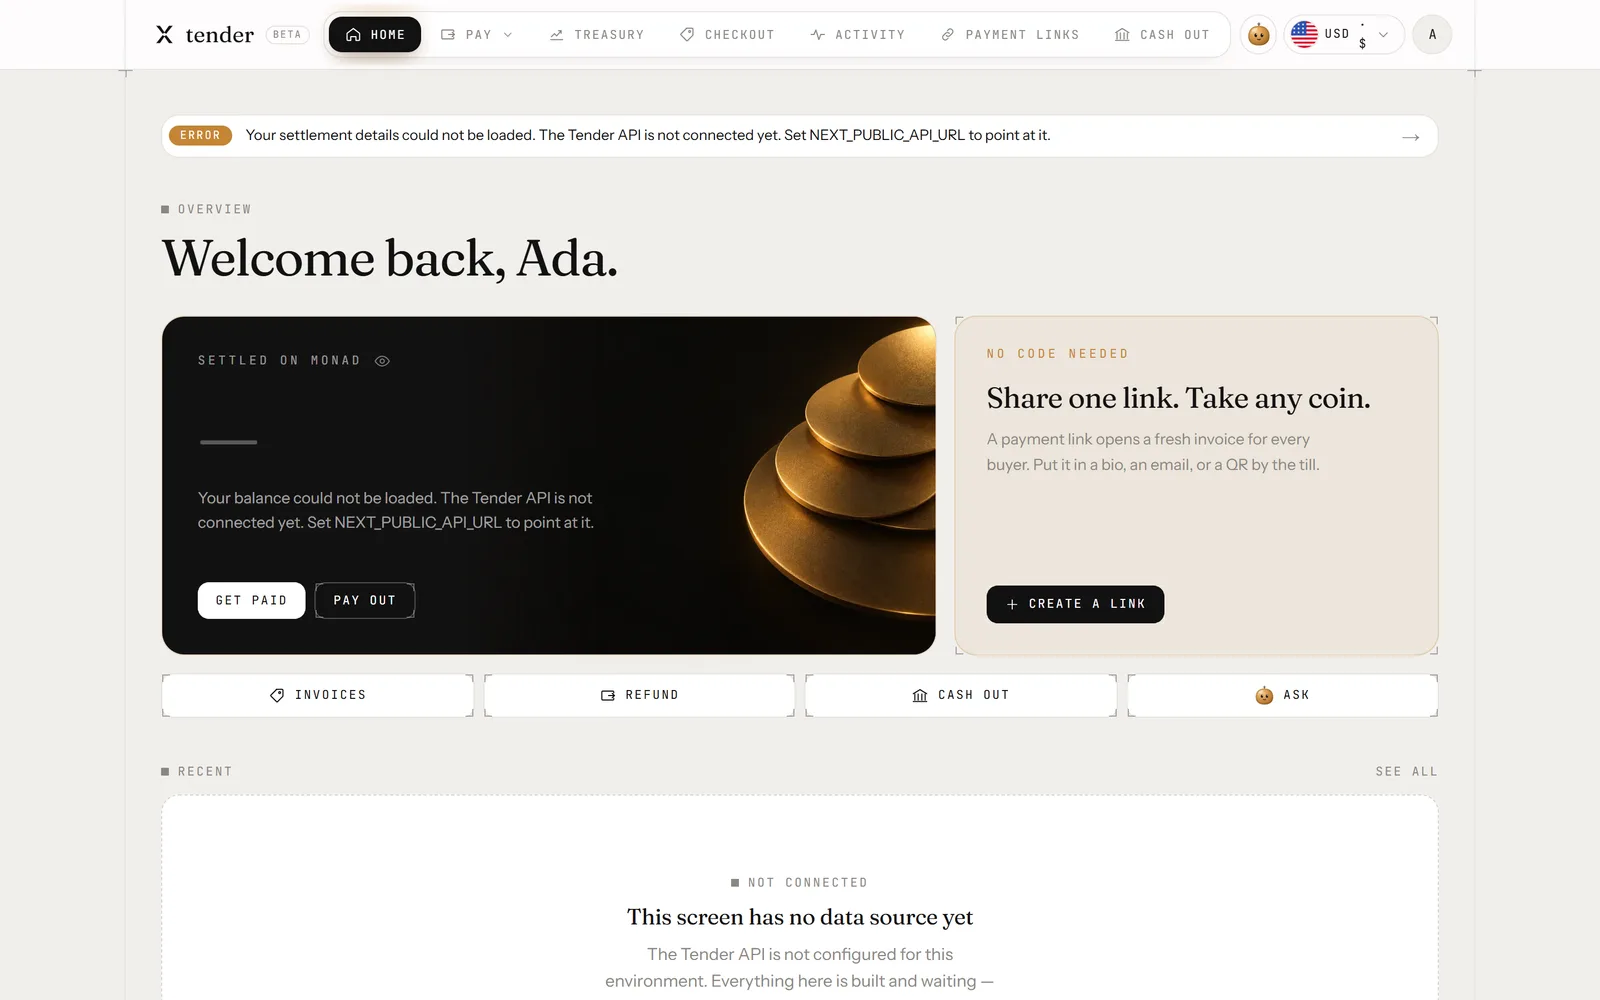
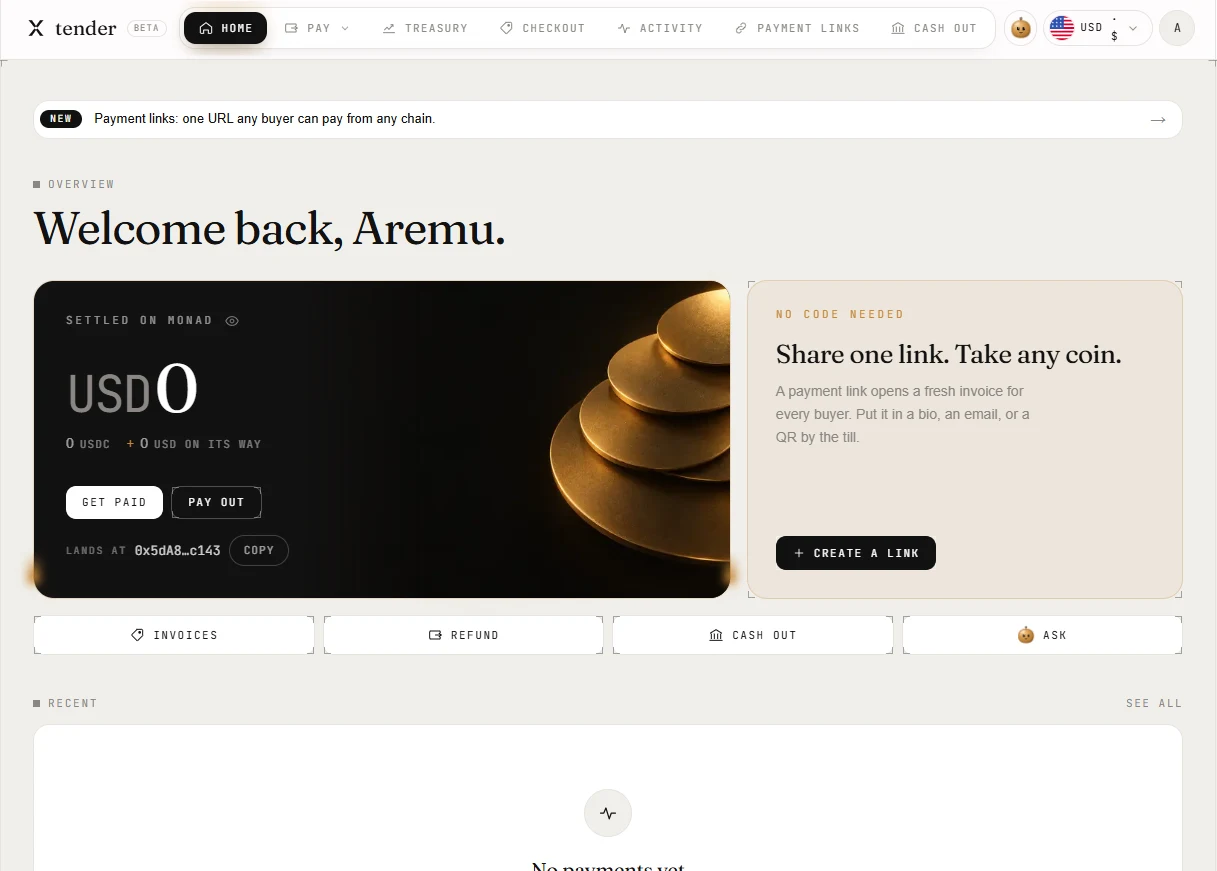
README: live dashboard shots, and why Tender fits Aurora
The two dashboard captures were taken against a build with no
NEXT_PUBLIC_API_URL, so they showed a placeholder merchant name and a
settlement-details error. Replaced with the real thing, signed in against
the deployed API: the live balance, what is in flight, and the settlement
address it lands at. The desktop shot is cropped to the dashboard's own
frame rails so it sits in the page without grey margins.

Says more about what Tender actually is. The buyer-facing story was one
paragraph; the merchant-facing one is now spelled out — taking money by
invoice or payment link, watching it land over webhooks and SSE, sending
it back out as refunds, payouts and splits, reconciling against a
reference, and displaying in thirteen currencies while the settlement
asset stays a separate deliberate setting. Plus what it never does: hold
the money.

Adds "Why this fits Aurora". Aurora solves routing and hands you an
address primitive with no deadline, no amount owed and no notion of an
order being paid. Those are commerce concepts it deliberately leaves
open, and a table now maps each one to the thing Tender adds. Covers the
60/40 integrator split and why one key per merchant is the shape the API
was built for.

Status section corrected: the API is deployed, so the half-built framing
and the line blaming the screenshots on non-deployment are gone. The real
end-to-end payment is still blocked on Monad being under maintenance as
an Aurora destination, and that stays stated plainly.

diff --git a/README.md b/README.md
@@ -33,6 +33,7 @@ You receive one asset on Monad. No bridges. No network switching. No gas. No wal
 - [The problem](#the-problem)
 - [What Tender actually does](#what-tender-actually-does)
 - [The one idea](#the-one-idea)
+- [Why this fits Aurora](#why-this-fits-aurora)
 - [See it](#see-it)
   - [The landing page](#the-landing-page)
   - [The merchant dashboard](#the-merchant-dashboard)
@@ -86,6 +87,18 @@ A buyer lands on a checkout page. They see an amount and a QR code. They send fr
 
 The merchant receives **one asset on Monad**, at an address they control, and a signed webhook the moment it lands.
 
+That is the whole buyer-facing story, and it is deliberately short. Underneath it, Tender is doing the work a payment processor has always done — it just does it across thirty chains instead of one.
+
+**For the merchant, Tender is the entire money layer of a business:**
+
+- **Take money.** Create an invoice from the API or the dashboard, or share a payment link that opens a fresh invoice for every buyer who touches it. Put that link in a bio, an email, or a QR code taped beside the till.
+- **Watch it land.** The dashboard shows what has settled on Monad, what is still in flight, and the exact address it lands at. The same transitions stream to your server as signed webhooks and to the checkout page over SSE, so nobody has to refresh anything.
+- **Send money back out.** Refund a buyer, pay a supplier or contractor, or split one payment across several addresses — all from settled revenue, without first moving it somewhere else.
+- **Reconcile without guessing.** Every payment carries your own `reference`, the chain it came from, the amount in and the amount settled. Underpayment, overpayment and failed settlement are each their own state, so your books never have to infer what happened from a generic error.
+- **Price in what your customers think in.** The dashboard displays in any of thirteen currencies. That is presentation only — the settlement asset is a separate, deliberate setting, because letting a flag in a header silently change where money goes would be a catastrophe.
+
+**What Tender never does:** hold your money. Funds move from the buyer's chain to the merchant's Monad address and stop there. Tender is not in the custody path, which is why there is no float, no license, and no account for anyone to freeze.
+
 | | Everyone else | Tender |
 |---|---|---|
 | Buyer picks a network | Yes, from a dropdown | **Never — every chain is accepted** |
@@ -107,6 +120,31 @@ Everything in this repository serves a single sentence:
 Aurora's deposit addresses have no concept of an amount owed, a deadline, a buyer, underpayment, or one-shot fulfilment. They are permanent, reusable, and will accept money forever.
 
 A checkout needs *all* of those ideas. **Tender's entire job is to impose invoice semantics on top of an address primitive that has none of them.** That mapping is the product. The state machine, the poller, the recovery queue, the expiry worker — all of it exists because of that one gap.
+
+---
+
+## Why this fits Aurora
+
+Aurora Intents solves routing. A deposit arrives on one of thirty chains and comes out as a chosen asset on Monad, swapped and bridged through NEAR Intents, with the destination's gas abstracted away so nobody in the transaction has to hold MON. That is a genuinely hard problem, and it is solved.
+
+What it is not, by design, is a checkout. Aurora hands you an **address primitive**: permanent, reusable, amount-agnostic, with no deadline, no buyer, no order, and no notion of being paid in full. Those are commerce concepts, and Aurora does not take a position on commerce — which is the right call for infrastructure, and exactly the gap a processor exists to fill.
+
+**Tender is the commerce layer that primitive is missing.** Every component maps to something Aurora deliberately leaves open:
+
+| Aurora gives | Aurora leaves open | What Tender adds |
+|---|---|---|
+| A permanent deposit address | No expiry, no amount owed | Invoices with `amount_expected`, `expires_at`, and an expiry worker |
+| Routing and swaps across 30 chains | No notion of "this order is paid" | The eight-state machine, with `SETTLED` only on the full amount |
+| Deposit status you can query | **No webhooks** — "coming soon" | A poller, SSE to the checkout, and signed webhooks to the merchant |
+| Automatic refunds *before* a deposit lands | Nothing automatic *after* one does | `NEEDS_RECOVERY` as a first-class state with its own queue |
+| An arbitrary `sender` identifier | No session, no buyer identity | A public checkout `token`, so the buyer never connects a wallet |
+| One API key per integrator, with its own fee | No merchant model | Merchants, hashed API keys, per-merchant settlement and webhooks |
+
+The fee model fits the same way. Aurora's split is **60/40 in the integrator's favour**, the integrator fee goes up to 100 bps, and one integrator can mint as many keys as it needs with independent fee settings — so **one key per merchant** is not a workaround, it is the shape the API was built for. Tender earns on the spread without ever touching custody.
+
+The value runs both ways. Every Tender merchant is a recurring, non-speculative source of cross-chain volume into Monad — not a trader arbitraging once, but a shop taking payments every day, in whatever its customers happen to hold.
+
+> **The honest version:** Aurora could not have shipped this, because a checkout is a product decision rather than a routing one. Tender could not exist without Aurora, because thirty-chain routing with abstracted gas is a multi-year problem. The seam between them is exactly where it should be.
 
 ---
 
@@ -156,7 +194,7 @@ Seven screens behind a server-side auth boundary, each one a sheet of the same d
 
 <img src="docs/media/shot-dash-home.webp" alt="The merchant dashboard home screen" width="100%" />
 
-<sub>**Home.** The screenshots in this section run against a local build with no API connected, which is the honest current state — see [Project status](#project-status). Screens that read from the API say so plainly rather than inventing numbers; there is no mock data anywhere in this project.</sub>
+<sub>**Home.** The live dashboard, signed in and talking to the Tender API: the balance settled on Monad, what is still in flight, and the address it all lands at. Nothing here is mock data — where a screen has nothing to show yet, it says so rather than inventing a number.</sub>
 
 <table>
 <tr>
@@ -577,13 +615,14 @@ Honest, because a README that oversells is worse than no README.
 | Half | State |
 |---|---|
 | **Web** — landing, `/docs`, blog, dashboard, buyer checkout | **Built and deployed** at [tenderr.xyz](https://tenderr.xyz) |
-| **API** — invoices, poller, webhooks, recovery, keys | **Built.** 164 tests pass; `e2e:local` ran the full merchant flow against the real Aurora API three times, 50 of 50 checks each |
+| **API** — invoices, poller, webhooks, recovery, keys | **Built and deployed.** 164 tests pass; `e2e:local` ran the full merchant flow against the real Aurora API three times, 50 of 50 checks each |
+| **The two halves, joined** | **Live.** The dashboard screenshots above are signed in against the deployed API — real merchant, real settlement address, real balance |
 
 **What has not happened yet: a real end-to-end payment** — roughly $2 from Solana into a live invoice.
 
 It is blocked, and not on our side. **Monad as a destination is under maintenance on Aurora / NEAR Intents.** Dry quotes to Monad USDC fail from every origin, so per-chain minimums cannot be measured and nothing can settle until it returns. Aurora has confirmed that deposits made during the maintenance window settle once it ends. There is no ETA.
 
-Also outstanding: the API image builds and runs locally but **is not yet deployed** (`backend/docs/DEPLOY.md`) — which is why the dashboard screenshots above show their not-connected states. The five fee-scroll illustrations are numbered placeholders. Earn / Intents Connect and the fiat ramps are post-hackathon (`docs/OFFRAMP.md`).
+Also outstanding: the five fee-scroll illustrations are still numbered placeholders, and a handful of the dashboard captures further up were taken before the API was wired, so they show their empty states rather than live data. Earn / Intents Connect and the fiat ramps are post-hackathon (`docs/OFFRAMP.md`).
 
 ---
 
